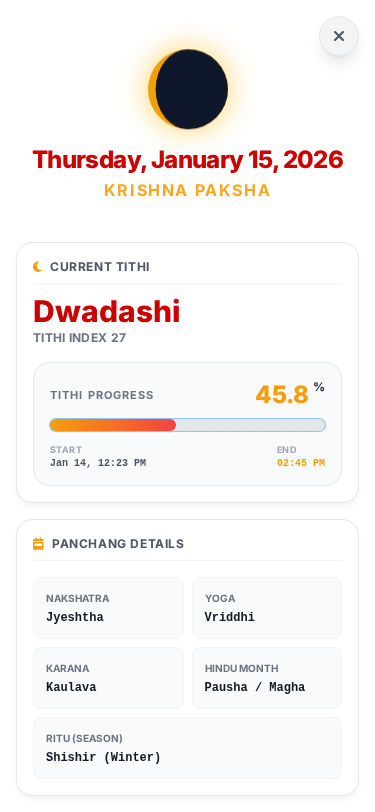
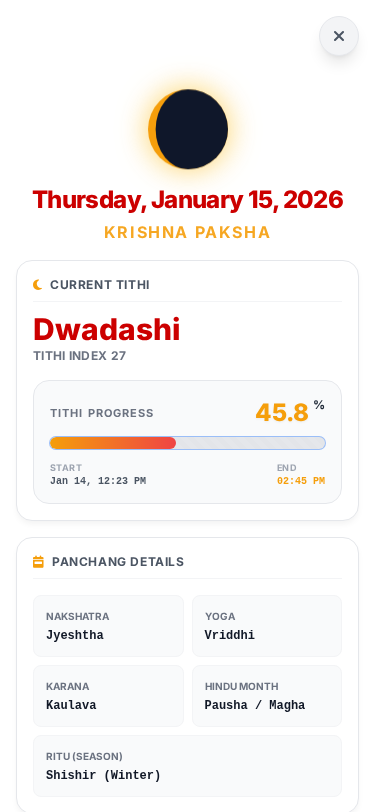
Adjust Day Detail Modal header layout for a compact look
Shifted the Day Detail Modal header icon and text slightly downwards using a positive top margin and reduced bottom padding to maintain compactness.

- Added `.pb-4` and `.mt-2` classes to `ai tex to calnder.html` styles.
- Updated `openDayModal` to use the new classes and remove previous negative margins.
- Removed unused classes (`.-mt-8`, `.-mt-0.5`, `.pb-10`).

diff --git a/ai tex to calnder.html b/ai tex to calnder.html
@@ -110,9 +110,8 @@
 <style>
         /* Custom Header Styles */
         .pt-21 { padding-top: 5.25rem; }
-        .-mt-8 { margin-top: -2rem; }
-        .-mt-0\.5 { margin-top: -0.125rem; }
-        .pb-10 { padding-bottom: 2.5rem; }
+        .pb-4 { padding-bottom: 1rem; }
+        .mt-2 { margin-top: 0.5rem; }
         .text-\[25px\] { font-size: 25px; }
         .text-\[32px\] { font-size: 32px; }
         .bg-amber-500\/10 { background-color: rgb(245 158 11 / 0.1); }
@@ -5291,10 +5290,10 @@ function renderCalendarGrid(data) {
                 <div class="h-full overflow-y-auto custom-scroll pb-20">
                     
                     <!-- Header -->
-                    <div class="text-center pt-21 pb-10 relative">
-                        <div class="w-20 h-20 mx-auto mb-3 moon-glow -mt-8">${mainIcon}</div>
+                    <div class="text-center pt-21 pb-4 relative mt-2">
+                        <div class="w-20 h-20 mx-auto mb-3 moon-glow">${mainIcon}</div>
                         <h2 class="text-2xl font-extrabold text-deepred mb-1 tracking-tight">${daysOfWeek[dateObj.getDay()]}, ${months[monthData.month]} ${day}, ${monthData.year}</h2>
-                        <p class="text-amber-500 font-bold text-base uppercase tracking-widest opacity-90 -mt-0.5">${tithiInfo.paksha}</p>
+                        <p class="text-amber-500 font-bold text-base uppercase tracking-widest opacity-90">${tithiInfo.paksha}</p>
                     </div>
 
                     <!-- Content Padding -->
